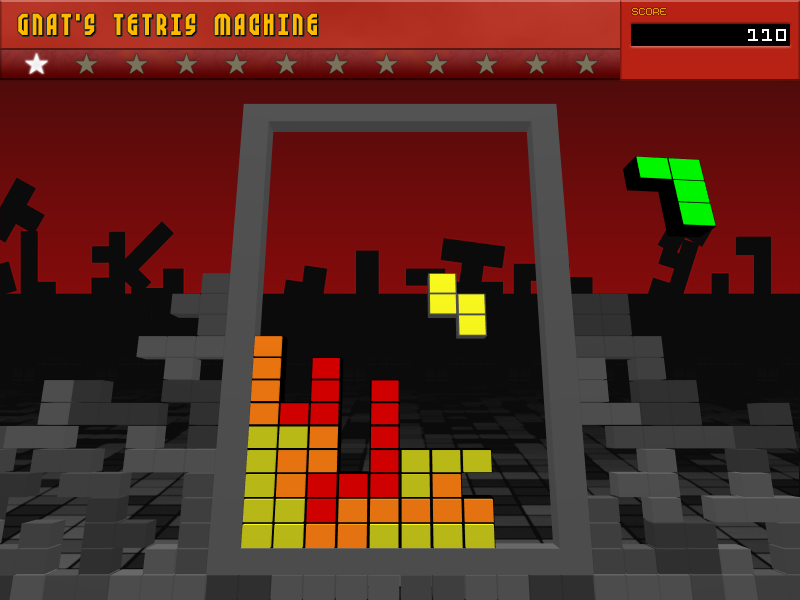
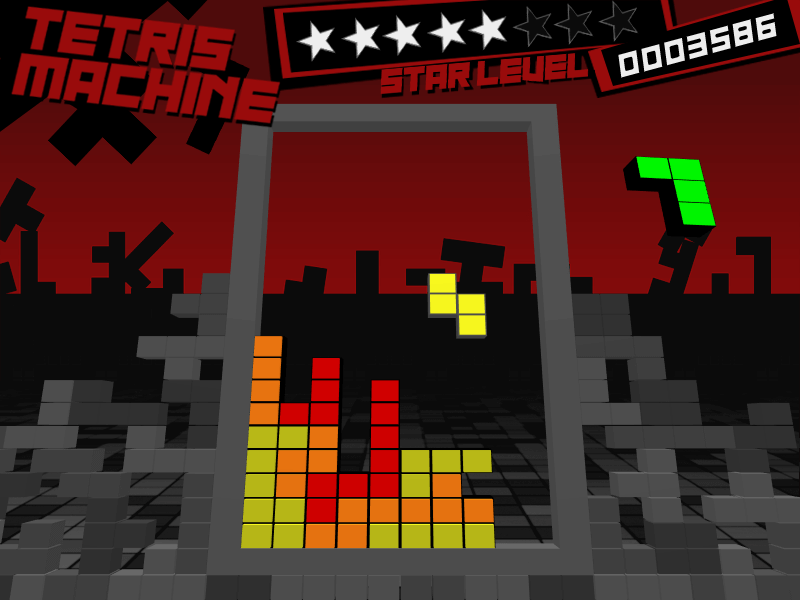
New UI, shortened name.

Changed region(s): [[0.0, 0.0, 1.0, 0.27]]

diff --git a/README.md b/README.md
@@ -1,14 +1,14 @@
-**Gnat's Tetris Machine is a remake of Alexey Pajitnov's classic "Tetris" from 1985.**
+**Tetris Machine is a remake of Alexey Pajitnov's classic "Tetris" from 1985.**
 
-Gnat's Tetris Machine is written in pure ANSI C, OpenGL API for 3D graphics, and SDL for input and sound. It features a clean, commented, C source code that can be used as a resource for learning how to program video games in C. Makefiles for Linux and Windows included.
+Tetris Machine is written in pure ANSI C, OpenGL API for 3D graphics, and SDL for input and sound. It features a clean, commented, C source code that can be used as a resource for learning how to program video games in C. Makefiles for Linux and Windows included.
 
-Gnat's Tetris Machine was originally written by Nathaniel Sabanski.
+Tetris Machine was originally written by Nathaniel Sabanski.
 
 **Gameplay Tips**
 
 Points multiply for clearing more than 1 row at a time. Large bonus for clearing 4 rows at a time (Pajitnov calls this a "Tetris"). See how many "Wanted Stars" you can get. If you manage to survive long enough, you may get to see the special Pepperidge Farms ending.* 
 
-<img src="http://i.imgur.com/3GcsGzT.png" alt="Gnat's Tetris Machine Screenshot 1" />
+<img src="https://i.imgur.com/aDb8LI7.png" alt="Tetris Machine Screenshot 1" />
 
 * There really is no "Pepperidge Farms" ending.
 
